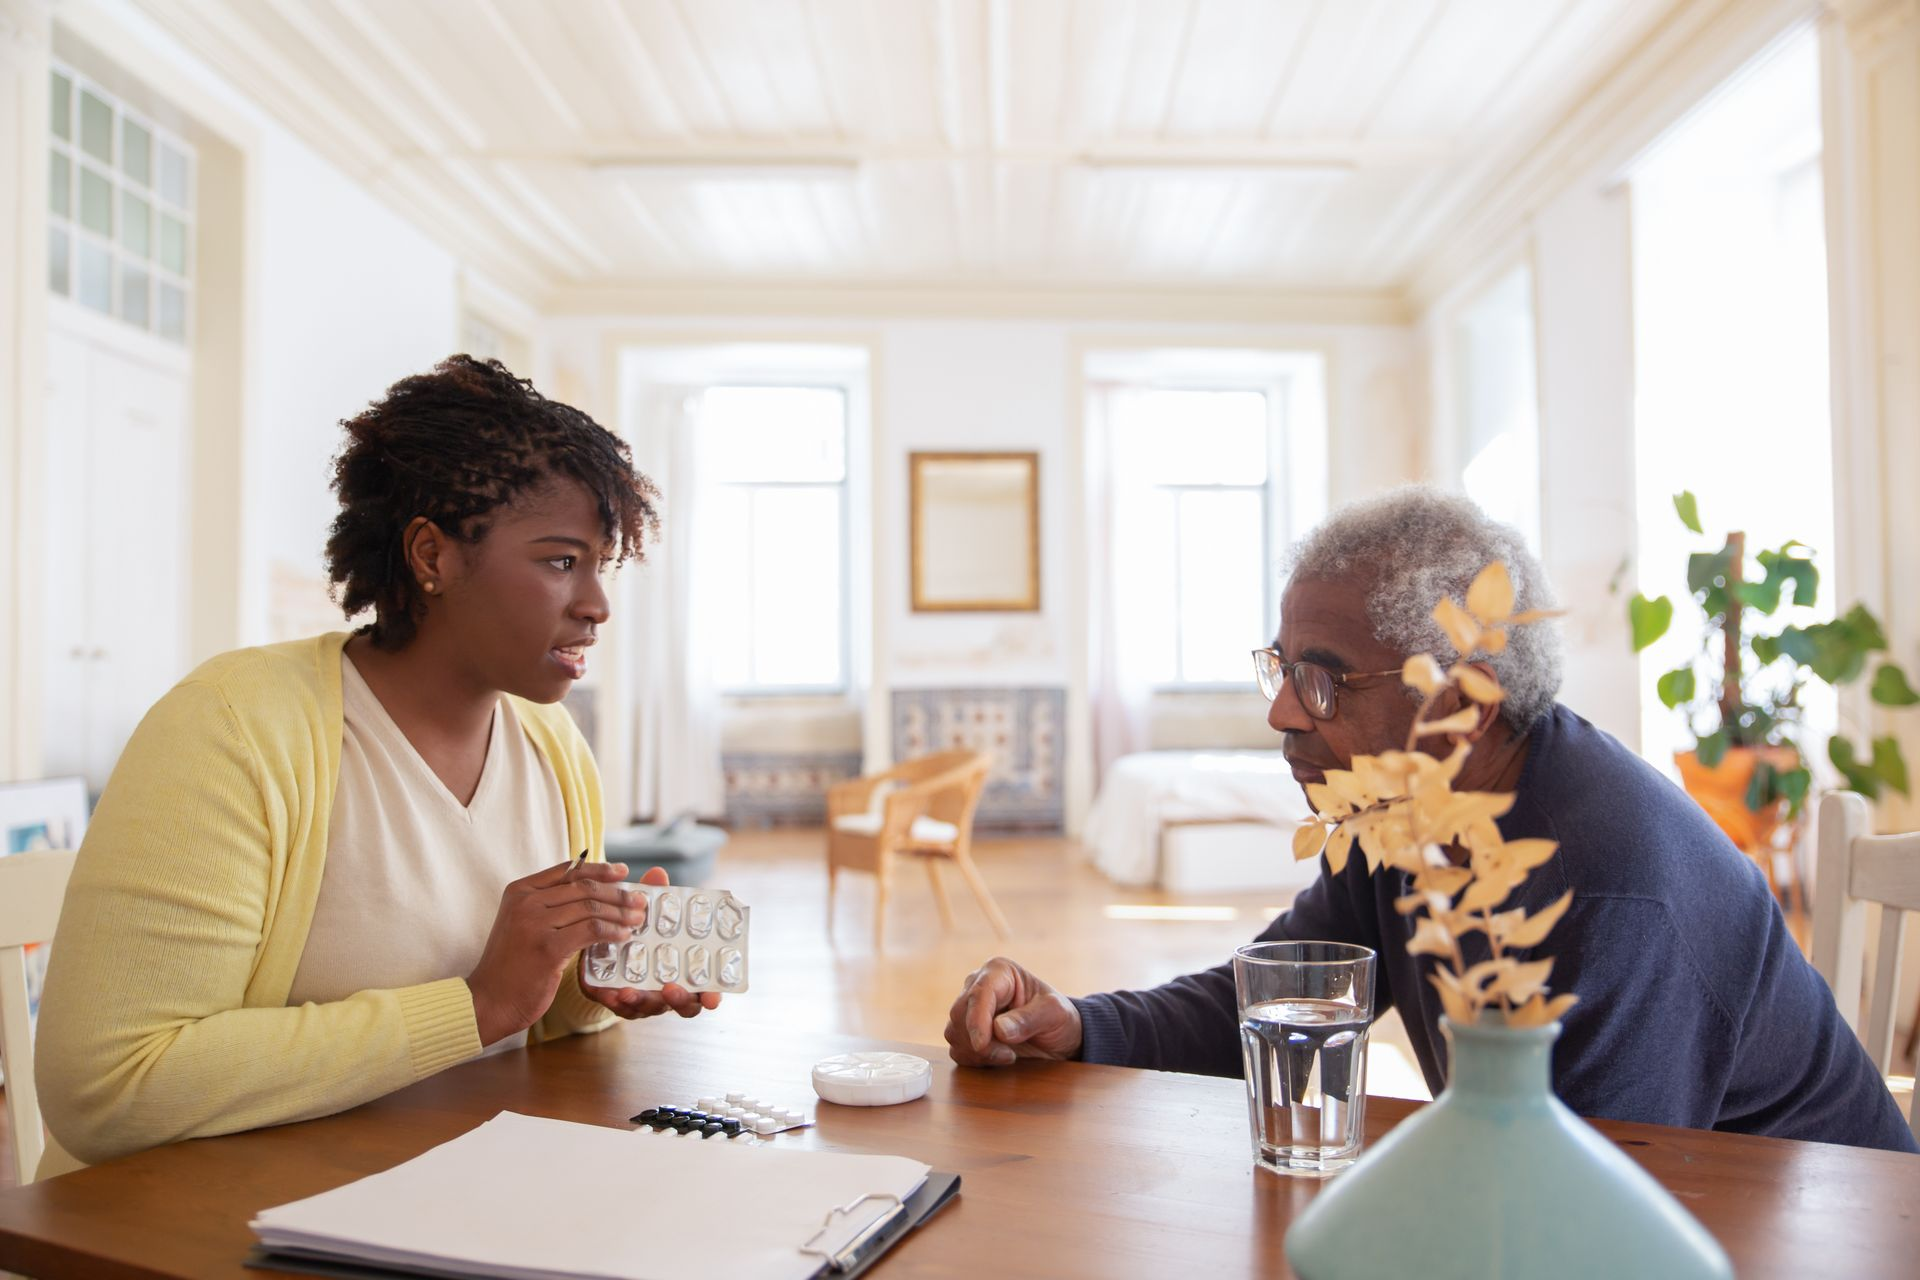
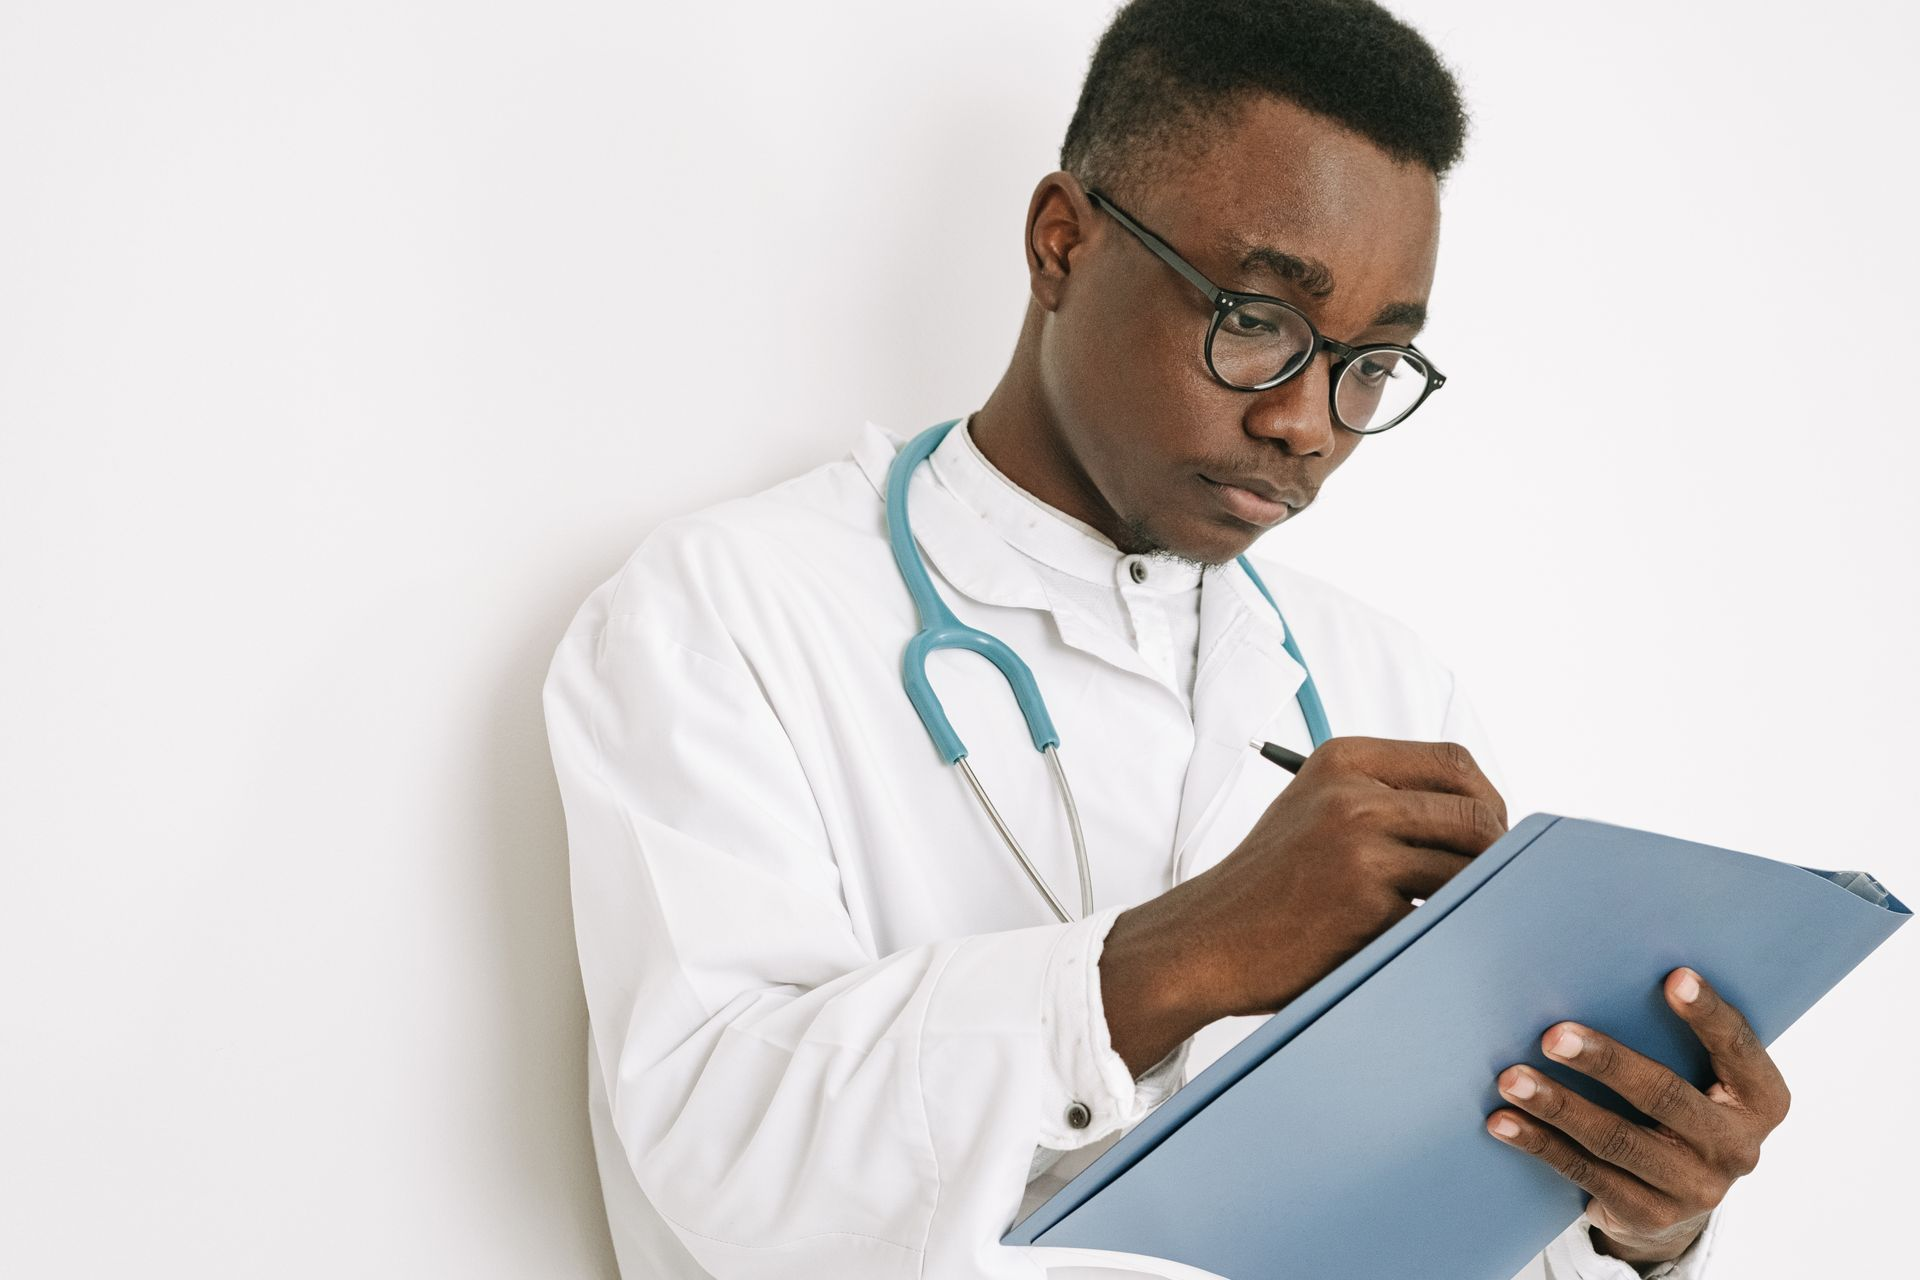
Rendre le hero plus lisible et plus fidèle à l'observatoire
Retour des professionnels de santé RH lors des tests : le calque
sombre masquait trop les photos, et les scènes de soin clinique
(consultation, aide à domicile) ne représentaient pas ce que fait un
observatoire des ressources humaines. Opacité du calque réduite
(90/75/55%+noir25% → 85/50/15%+noir10%) et slide 1 remplacée par un
médecin documentant un dossier — cohérent avec les slides 2 et 3
déjà orientées données/rapports.

diff --git a/frontend/src/components/sections/HeroCarousel.tsx b/frontend/src/components/sections/HeroCarousel.tsx
@@ -81,8 +81,8 @@ export function HeroCarousel() {
               loading={index === 0 ? 'eager' : 'lazy'}
             />
 
-            <div className="absolute inset-0 bg-gradient-to-r from-institutional-blue/90 via-institutional-blue/75 to-institutional-blue/55" />
-            <div className="absolute inset-0 bg-black/25" />
+            <div className="absolute inset-0 bg-gradient-to-r from-institutional-blue/85 via-institutional-blue/50 to-institutional-blue/15" />
+            <div className="absolute inset-0 bg-black/10" />
 
             <div className="relative z-10 mx-auto flex h-full max-w-7xl items-center px-4 py-16 sm:px-6 sm:py-20 lg:py-24">
               <div className="max-w-2xl">

diff --git a/frontend/src/constants/hero.ts b/frontend/src/constants/hero.ts
@@ -19,7 +19,7 @@ export const HERO_SLIDES: HeroSlide[] = [
     description:
       "Une plateforme nationale dédiée à l'observation, l'analyse et la valorisation des ressources humaines en santé au Bénin.",
     image: '/images/hero/slide-1.jpg',
-    imageAlt: 'Professionnelle de santé africaine en consultation avec un patient',
+    imageAlt: 'Médecin africain documentant un dossier professionnel',
     buttons: [
       { label: "Découvrir l'ORHS", href: '/a-propos', variant: 'primary' },
       { label: 'Nos missions', href: '/a-propos#missions', variant: 'outline' },
